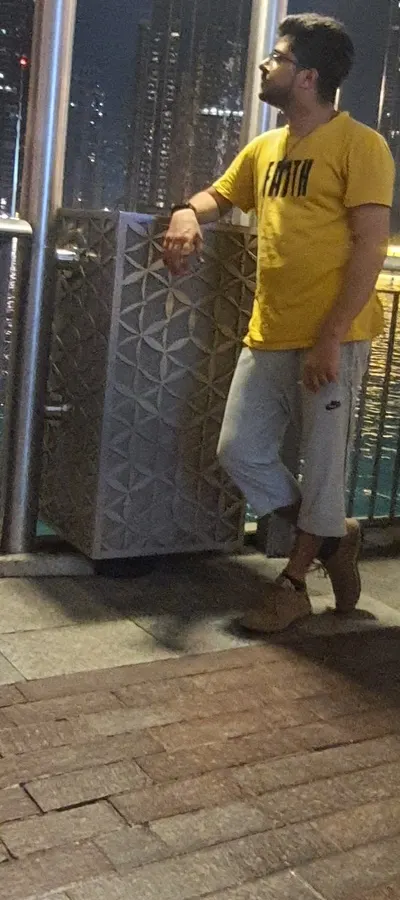
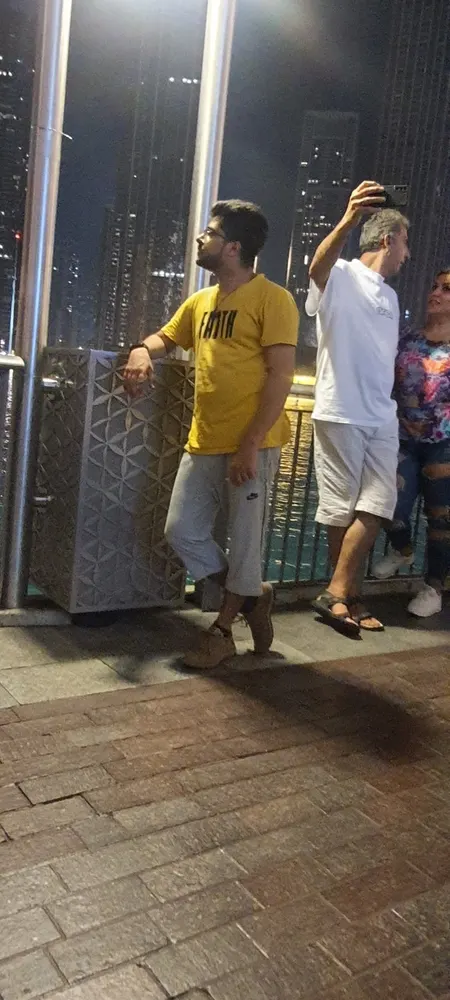
fix: use original uncropped photos in Dubai gallery

diff --git a/src/data/resume.tsx b/src/data/resume.tsx
@@ -162,11 +162,11 @@ export const DATA = {
         { src: "/gallery/dubai/dhow-cruise.webp", alt: "Evening dhow cruise on the water", width: 750, height: 1000 },
         { src: "/gallery/dubai/office.webp", alt: "Working with a colleague at the office in Dubai", width: 1000, height: 750 },
         { src: "/gallery/dubai/dubai-mall.webp", alt: "At Dubai Mall", width: 750, height: 1000 },
-        { src: "/gallery/dubai/burj-fountain.webp", alt: "Night at the Dubai Fountain promenade", width: 400, height: 900 },
+        { src: "/gallery/dubai/burj-fountain.webp", alt: "Night at the Dubai Fountain promenade", width: 450, height: 1000 },
         { src: "/gallery/dubai/night-walk.webp", alt: "Late-night walk through the city", width: 1000, height: 750 },
         { src: "/gallery/dubai/mall-christmas.webp", alt: "Christmas display at a Dubai mall", width: 750, height: 1000 },
         { src: "/gallery/dubai/evening-cafe.webp", alt: "Evening coffee with a friend", width: 563, height: 1000 },
-        { src: "/gallery/dubai/pakistan-latte.webp", alt: "A latte with \"Pakistan\" in the foam art at a Dubai café", width: 500, height: 554 },
+        { src: "/gallery/dubai/pakistan-latte.webp", alt: "A latte with \"Pakistan\" in the foam art at a Dubai café", width: 750, height: 1000 },
       ],
     },
   ],
